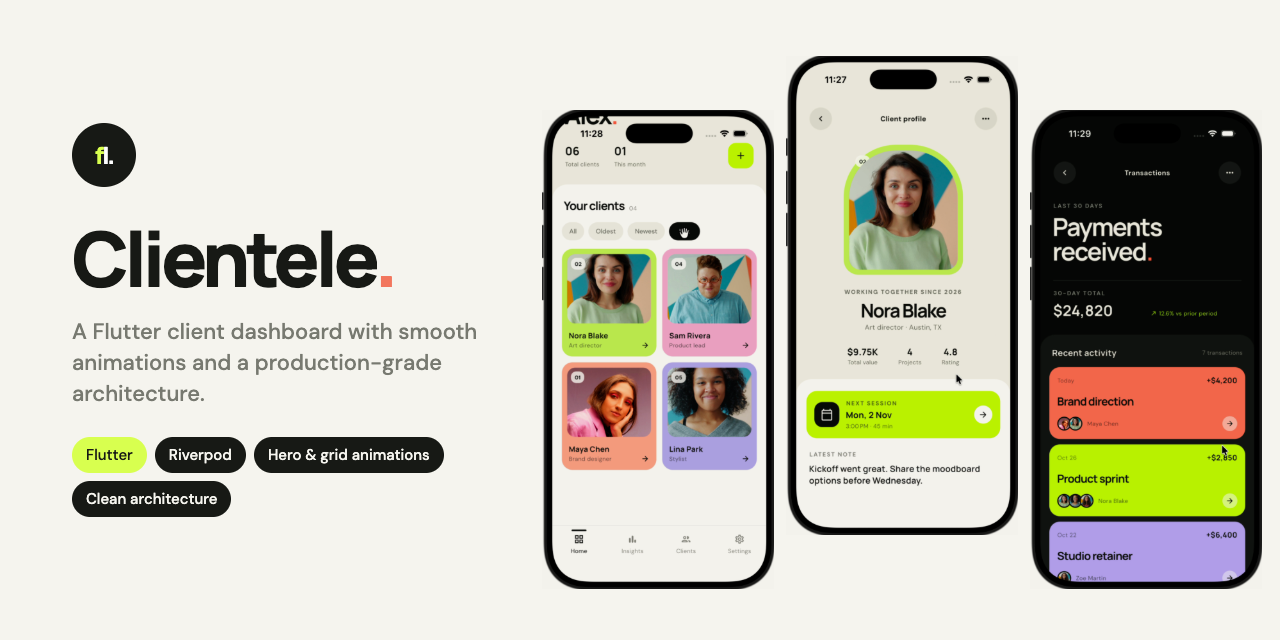
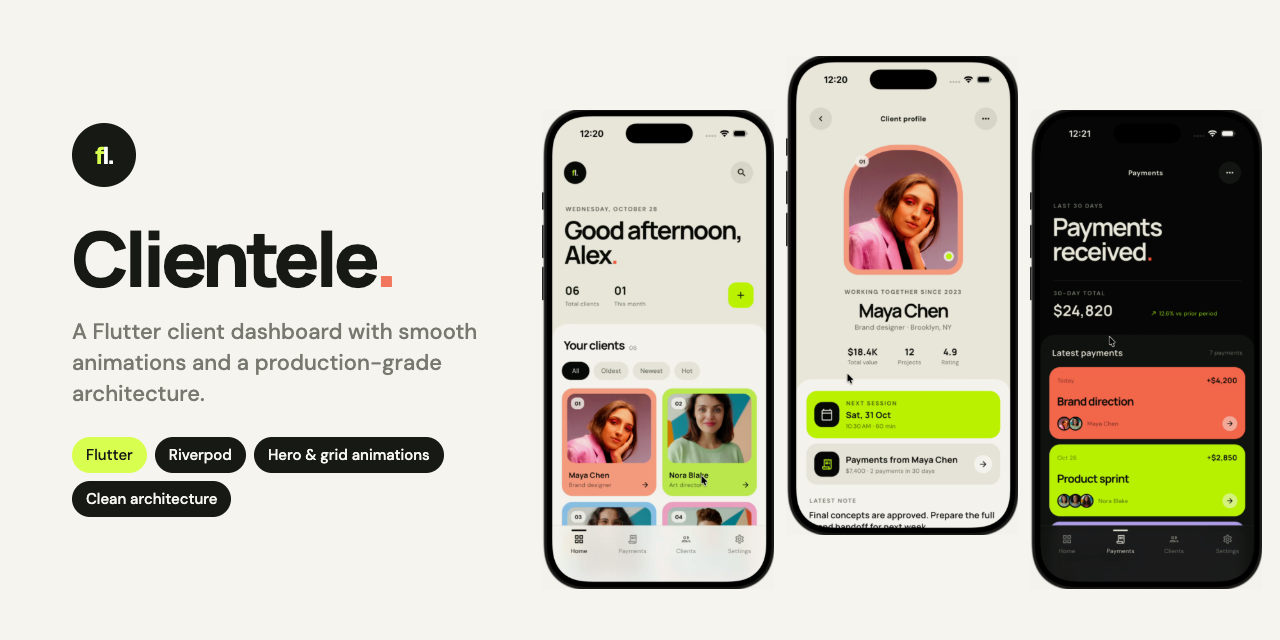
docs: refresh demo gifs and social preview for the payments tab

diff --git a/README.md b/README.md
@@ -11,7 +11,7 @@ build; on a desktop it opens inside a phone frame).
 
 | Animated filters | Hero to profile | Payments |
 |:---:|:---:|:---:|
-| <img src="docs/gifs/filters.gif" width="240" alt="Client grid animating between filters"> | <img src="docs/gifs/hero.gif" width="240" alt="Client photo flying into the profile"> | <img src="docs/gifs/transactions.gif" width="240" alt="Transaction cards rising in on a dark screen"> |
+| <img src="docs/gifs/filters.gif" width="240" alt="Client grid animating between filters"> | <img src="docs/gifs/hero.gif" width="240" alt="Client photo flying into the profile"> | <img src="docs/gifs/payments.gif" width="240" alt="Payments tab, then a profile opening its client payments"> |
 
 ## What it shows
 - **Animated grid filtering.** Switching between All / Oldest / Newest / Hot
